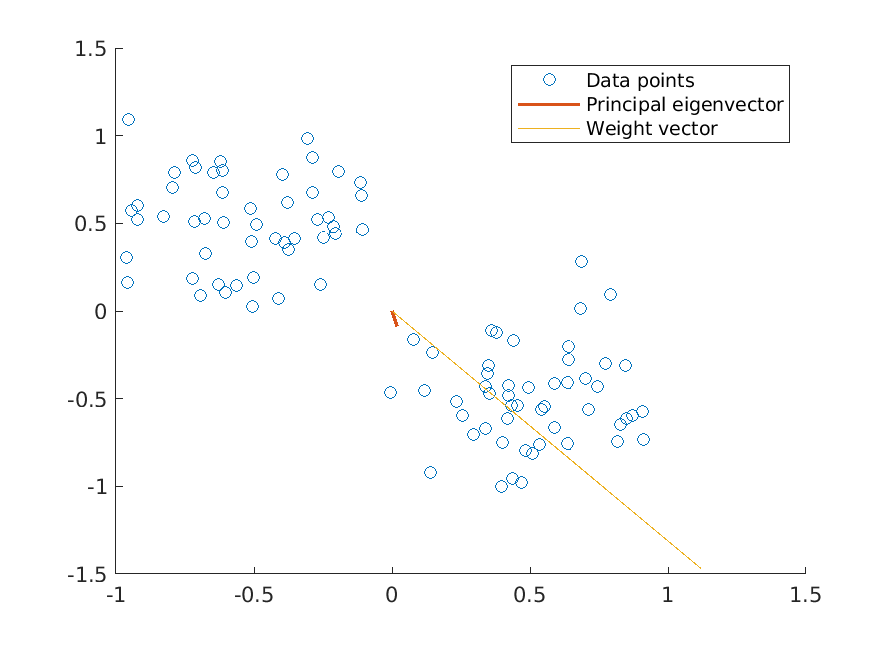
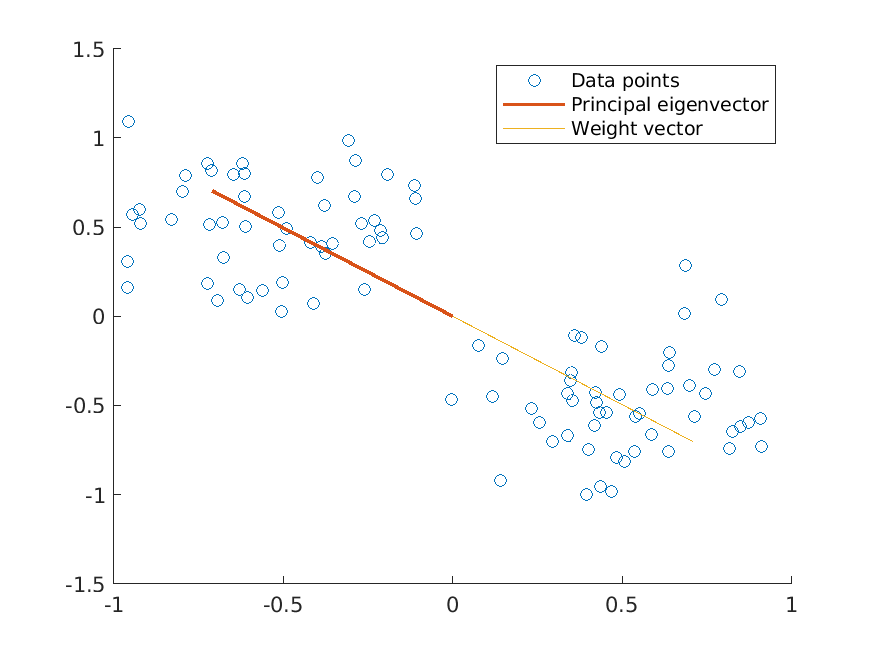
eigvect updated

diff --git a/LAB2_1/Assignment3/sub_norm_rule.m b/LAB2_1/Assignment3/sub_norm_rule.m
@@ -2,12 +2,12 @@
 
 U = csvread('../lab2_1_data.csv');  % load the dataset
 W = -1 + (1+1)*rand(2,1);
-Q = U' * U; % correlation matrix of the input
+Q = U * U'; % correlation matrix of the input
 Nu = size(U,1);
 n = ones(1, Nu);
 n_epochs = 1000;
-lr = 10e-8;
-delta_norm_thr = 10e-6;
+lr = 10e-5;
+delta_norm_thr = 10e-10;
 norm_w = norm(W);
 Ws = [];    % weights during time
 Wn = [];    % weights norms
@@ -30,9 +30,9 @@ for t=1:n_epochs
     norm_w = norm_w_new;
     Wn(end+1) = norm_w;
     
-    fprintf('Epoch %d/%d, |W|=%5.4f, delta norm=%5.5f, norm thr=%5.5f \n',t,n_epochs,norm_w,delta_norm,delta_norm_thr);
+    fprintf('Epoch %d/%d, |W|=%5.10f, delta norm=%5.10f, norm thr=%5.10f \n',t,n_epochs,norm_w,delta_norm,delta_norm_thr);
     
-    if delta_norm >= delta_norm_thr
+    if delta_norm <= delta_norm_thr
         fprintf('Reached threshold! \n');
         break;
     end;
@@ -40,7 +40,7 @@ end;
 
 % P1)
 [V,D] = eig(Q);
-[d,ind] = sort(diag(D));
+[d,ind] = sort(diag(D),'descend');
 V = V(:,ind);
 eigvec = V(:,1);
 
@@ -49,7 +49,7 @@ scatter(U(1,:), U(2,:));
 hold on;
 plotv(eigvec);
 set(findall(gca,'Type', 'Line'),'LineWidth',1.75);
-plotv(W);
+plotv(W/norm(W));
 hold off;
 legend('Data points','Principal eigenvector','Weight vector');
 print(fig,'images/points_eigvect_weights.png','-dpng');
@@ -76,4 +76,4 @@ ylabel('weights norm');
 title('Evolution in time of the weights norm');
 print(fig,'images/weights_norms.png','-dpng');
 
-save('W.mat','Ws');
+save('Weights.mat','Ws');

diff --git a/LAB2_1/Assignment2/oja_rule.m b/LAB2_1/Assignment2/oja_rule.m
@@ -2,11 +2,11 @@
 
 U = csvread('../lab2_1_data.csv');  % load the dataset
 W = -1 + (1+1)*rand(2,1);
-Q = U' * U; % correlation matrix of the input
+Q = U * U'; % correlation matrix of the input
 n_epochs = 1000;
-lr = 10e-7;
-alpha = 10e-5;
-delta_norm_thr = 10e-6;
+lr = 10e-6;
+alpha = 10e-4;
+delta_norm_thr = 10e-10;
 norm_w = norm(W);
 Ws = [];    % weights during time
 Wn = [];    % weights norms
@@ -29,7 +29,7 @@ for t=1:n_epochs
     norm_w = norm_w_new;
     Wn(end+1) = norm_w;
     
-    fprintf('Epoch %d/%d, |W|=%5.4f, delta norm=%5.5f, norm thr=%5.5f, 1/α=%0.5f \n',t,n_epochs,norm_w,delta_norm,delta_norm_thr,(1/alpha));
+    fprintf('Epoch %d/%d, |W|=%5.10f, delta norm=%5.10f, norm thr=%5.10f, 1/α=%0.5f \n',t,n_epochs,norm_w,delta_norm,delta_norm_thr,(1/alpha));
     
     if delta_norm <= delta_norm_thr
         fprintf('Reached threshold! \n');
@@ -39,7 +39,7 @@ end;
 
 % P1)
 [V,D] = eig(Q);
-[d,ind] = sort(diag(D));
+[d,ind] = sort(diag(D),'descend');
 V = V(:,ind);
 eigvec = V(:,1);
 
@@ -48,7 +48,7 @@ scatter(U(1,:), U(2,:));
 hold on;
 plotv(eigvec);
 set(findall(gca,'Type', 'Line'),'LineWidth',1.75);
-plotv(W);
+plotv(W/norm(W));
 hold off;
 legend('Data points','Principal eigenvector','Weight vector');
 print(fig,'images/points_eigvect_weights.png','-dpng');
@@ -75,4 +75,4 @@ ylabel('weights norm');
 title('Evolution in time of the weights norm');
 print(fig,'images/weights_norms.png','-dpng');
 
-save('W.mat','Ws');
+save('Weights.mat','Ws');

diff --git a/LAB2_1/Assignment1/hebb_rule.m b/LAB2_1/Assignment1/hebb_rule.m
@@ -1,11 +1,11 @@
 % Assignment 1 - Basic Hebbian Learning
 
 U = csvread('../lab2_1_data.csv');  % load the dataset
-W = -1 + (1+1)*rand(2,1);
-Q = U' * U; % correlation matrix of the input
+W = -1 + 2.*rand(2,1);
+Q = U * U'; % correlation matrix of the input
 n_epochs = 1000;
-lr = 10e-6;
-delta_norm_thr = 10e-5;
+lr = 4*10e-5;
+delta_norm_thr = 10e-10;
 norm_w = norm(W);
 Ws = [];    % weights during time
 Wn = [];    % weights norms
@@ -28,7 +28,7 @@ for t=1:n_epochs
     norm_w = norm_w_new;
     Wn(end+1) = norm_w;
     
-    fprintf('Epoch %d/%d, |W|=%5.4f, delta norm=%5.5f, norm thr=%5.5f \n',t,n_epochs,norm_w,delta_norm,delta_norm_thr);
+    fprintf('Epoch %d/%d, |W|=%5.10f, delta norm=%5.10f, norm thr=%5.10f \n',t,n_epochs,norm_w,delta_norm,delta_norm_thr);
     
     if delta_norm <= delta_norm_thr
         fprintf('Reached threshold! \n');
@@ -38,7 +38,7 @@ end;
 
 % P1)
 [V,D] = eig(Q);
-[d,ind] = sort(diag(D));
+[d,ind] = sort(diag(D),'descend');
 V = V(:,ind);
 eigvec = V(:,1);
 
@@ -47,7 +47,7 @@ scatter(U(1,:), U(2,:));
 hold on;
 plotv(eigvec);
 set(findall(gca,'Type', 'Line'),'LineWidth',1.75);
-plotv(W);
+plotv(W/norm(W));
 hold off;
 legend('Data points','Principal eigenvector','Weight vector');
 print(fig,'images/points_eigvect_weights.png','-dpng');
@@ -74,4 +74,4 @@ ylabel('weights norm');
 title('Evolution in time of the weights norm');
 print(fig,'images/weights_norms.png','-dpng');
 
-save('W.mat','Ws');
+save('Weights.mat','Ws');
